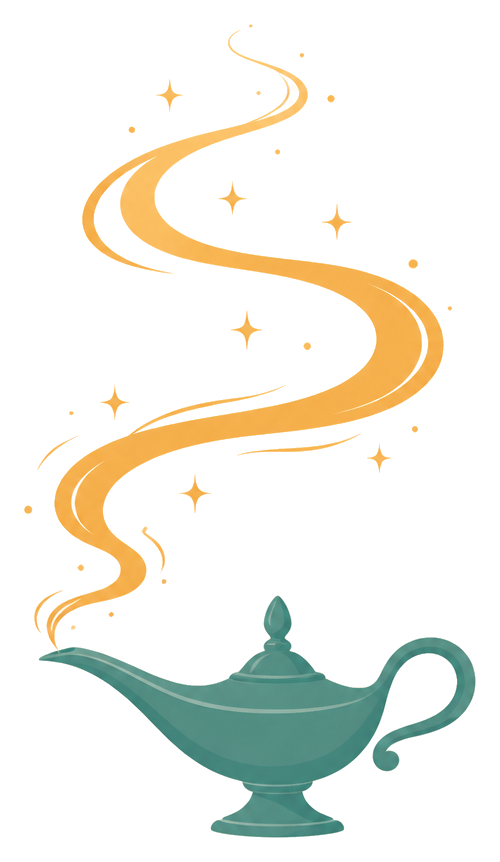
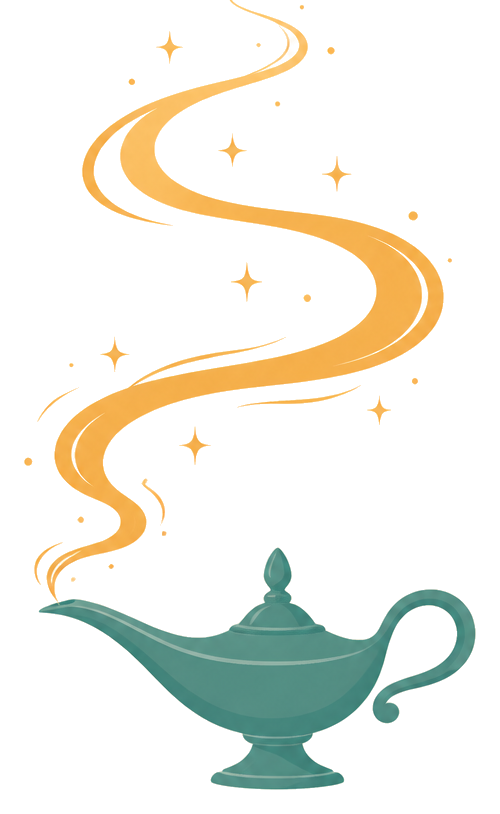
Speed up envelope animation, fix card z-index, rename wishes to credits
- Reduce envelope flip wait from 2.4s to 1.2s and opening animation from 6.2s to 4s
- Raise card z-index above flap so card appears in front during opening
- Replace all "wishes" with "credits" in purchasing/credit UI text

diff --git a/src/App.tsx b/src/App.tsx
@@ -162,7 +162,7 @@ const generateJobPollMs = 2000
 const generateJobClientTimeoutMs = 12 * 60 * 1000
 const generateJobMaxPollFailures = 15
 const generationLostConnectionMessage =
-  'We lost the connection while checking on your card. Come back to this page — if it finished, it will appear. No wishes are used until the card is ready.'
+  'We lost the connection while checking on your card. Come back to this page — if it finished, it will appear. No credits are used until the card is ready.'
 
 const readStoredGenerationJob = () => {
   try {
@@ -801,7 +801,7 @@ function App() {
   const [cardGreeting, setCardGreeting] = useState<string | null>(null)
   const [cardSignature, setCardSignature] = useState<string | null>(null)
   const [credits, setCredits] = useState(initialCreditBalance)
-  const [creditNotice, setCreditNotice] = useState('You have 50 starter wishes for this demo.')
+  const [creditNotice, setCreditNotice] = useState('You have 50 starter credits for this demo.')
   const [error, setError] = useState('')
   const [sharedCard, setSharedCard] = useState<SharedCard | null>(null)
   const [isLoadingSharedCard, setIsLoadingSharedCard] = useState(false)
@@ -1131,7 +1131,7 @@ function App() {
 
   const addCreditPack = () => {
     setCredits((current) => current + creditPackAmount)
-    setCreditNotice(`Added ${creditPackAmount} demo wishes. In production this would happen after checkout.`)
+    setCreditNotice(`Added ${creditPackAmount} demo credits. In production this would happen after checkout.`)
   }
 
   const finishGeneratedCard = (data: { message: string; closing?: string; imageUrl: string }, signatureName: string) => {
@@ -1146,7 +1146,7 @@ function App() {
     setStep('envelope')
     setShowCompletionNote(true)
     setCredits((current) => current - cardGenerationCost)
-    setCreditNotice(`${cardGenerationCost} wishes used to create this card.`)
+    setCreditNotice(`${cardGenerationCost} credits used to create this card.`)
     window.setTimeout(() => setShowCompletionNote(false), 6000)
     clearStoredGenerationJob()
   }
@@ -1199,7 +1199,7 @@ function App() {
     setError('')
 
     if (!hasEnoughCreditsForCard) {
-      setCreditNotice(`You need ${cardGenerationCost} wishes to create a card. Buy more wishes to keep going.`)
+      setCreditNotice(`You need ${cardGenerationCost} credits to create a card. Buy more credits to keep going.`)
       return
     }
 
@@ -1270,7 +1270,7 @@ function App() {
 
   const openEnvelope = () => {
     setStep('opening')
-    window.setTimeout(() => setStep('front'), 6200)
+    window.setTimeout(() => setStep('front'), 4000)
   }
 
   const playEnvelopeBack = () => {
@@ -1280,7 +1280,7 @@ function App() {
 
   const flipEnvelope = () => {
     setStep('envelopeFlip')
-    window.setTimeout(playEnvelopeBack, 2400)
+    window.setTimeout(playEnvelopeBack, 1200)
   }
 
   const replayAnimation = () => {
@@ -1350,7 +1350,7 @@ function App() {
     setError('')
 
     if (!hasEnoughCreditsForRevision) {
-      setCreditNotice(`You need ${revisionCost} wishes to revise the cover. Buy more wishes to keep going.`)
+      setCreditNotice(`You need ${revisionCost} credits to revise the cover. Buy more credits to keep going.`)
       return
     }
 
@@ -1385,7 +1385,7 @@ function App() {
       setImageRefinement('')
       setStep('front')
       setCredits((current) => current - revisionCost)
-      setCreditNotice(`${revisionCost} wishes used to revise the cover.`)
+      setCreditNotice(`${revisionCost} credits used to revise the cover.`)
     } catch (caughtError) {
       setError(getFriendlyErrorMessage(caughtError, 'Unable to refine the cover image.'))
       setCreditNotice('Your wish is still in the lamp.')
@@ -1402,7 +1402,7 @@ function App() {
     setError('')
 
     if (!hasEnoughCreditsForRevision) {
-      setCreditNotice(`You need ${revisionCost} wishes to polish the message. Buy more wishes to keep going.`)
+      setCreditNotice(`You need ${revisionCost} credits to polish the message. Buy more credits to keep going.`)
       return
     }
 
@@ -1447,7 +1447,7 @@ function App() {
       setShowPolishDialog(false)
       setStep('inside')
       setCredits((current) => current - revisionCost)
-      setCreditNotice(`${revisionCost} wishes used to polish the inside message.`)
+      setCreditNotice(`${revisionCost} credits used to polish the inside message.`)
     } catch (caughtError) {
       setError(getFriendlyErrorMessage(caughtError, 'Unable to refine the inside message.'))
       setCreditNotice('Your wish is still in the lamp.')
@@ -1607,13 +1607,13 @@ function App() {
         {!isRecipientView && <div className="credit-wallet" aria-label="Wish balance">
           <div>
             <span className="wallet-kicker">Welcome back, {senderLabel}. Ready for another wish?</span>
-            <strong>{credits} wishes in your lamp</strong>
+            <strong>{credits} credits in your lamp</strong>
             <small>
-              Cards use {cardGenerationCost} wishes. Revisions use {revisionCost} wishes.
+              Cards use {cardGenerationCost} credits. Revisions use {revisionCost} credits.
             </small>
           </div>
           <button className="secondary-button" type="button" onClick={addCreditPack}>
-            Buy more wishes - $10
+            Buy more credits - $10
           </button>
         </div>}
       </section>
@@ -1630,7 +1630,7 @@ function App() {
 
           <div className="credit-callout">
             <span>{creditNotice}</span>
-            <strong>{credits} wishes</strong>
+            <strong>{credits} credits</strong>
           </div>
 
           <div className="field-grid">
@@ -1787,8 +1787,8 @@ function App() {
             {isGenerating
               ? 'Creating a little magic...'
               : card
-                ? `Create another card - ${cardGenerationCost} wishes`
-                : `Create this card - ${cardGenerationCost} wishes`}
+                ? `Create another card - ${cardGenerationCost} credits`
+                : `Create this card - ${cardGenerationCost} credits`}
           </button>
           {isGenerating && (
             <p className="generate-scroll-hint">Your card is taking shape below.</p>
@@ -1829,7 +1829,7 @@ function App() {
               <div className="wish-loader" aria-hidden="true">
                 <div className="wish-halo" />
                 <img className="wish-art" src={`${import.meta.env.BASE_URL}loader-wish.png`} alt="" />
-                <svg className="wish-sparks" viewBox="0 0 500 862" fill="none">
+                <svg className="wish-sparks" viewBox="0 0 500 814" fill="none">
                   <defs>
                     <filter id="spark-glow" x="-80%" y="-80%" width="260%" height="260%">
                       <feGaussianBlur stdDeviation="1.4" result="blur" />
@@ -1843,30 +1843,30 @@ function App() {
                     </filter>
                   </defs>
                   <g className="wisps" filter="url(#wisp-blur)">
-                    <path className="wisp wisp-1" d="M70 620C110 580 145 555 125 525C90 495 75 475 100 450C170 415 310 405 400 355C445 320 430 295 350 268C240 238 125 225 132 185C140 145 230 115 285 78" />
-                    <path className="wisp wisp-2" d="M82 618C122 575 158 548 138 520C102 490 88 470 114 444C182 408 322 398 412 348C456 314 440 288 360 262C250 232 138 218 145 178C154 138 242 108 296 74" />
-                    <path className="wisp wisp-3" d="M58 622C96 586 132 562 112 532C78 502 64 482 88 456C158 422 298 412 388 362C434 328 418 302 338 274C228 244 114 232 120 192C128 154 218 122 274 84" />
-                    <path className="wisp wisp-4" d="M100 450C170 415 310 405 400 355C445 320 430 295 350 268C240 238 125 225 132 185" />
-                    <path className="wisp wisp-5" d="M68 628C88 600 120 575 118 548C110 528 88 518 78 505" />
+                    <path className="wisp wisp-1" d="M70 572C110 532 145 507 125 477C90 447 75 427 100 402C170 367 310 357 400 307C445 272 430 247 350 220C240 190 125 177 132 137C140 97 230 67 285 30" />
+                    <path className="wisp wisp-2" d="M82 570C122 527 158 500 138 472C102 442 88 422 114 396C182 360 322 350 412 300C456 266 440 240 360 214C250 184 138 170 145 130C154 90 242 60 296 26" />
+                    <path className="wisp wisp-3" d="M58 574C96 538 132 514 112 484C78 454 64 434 88 408C158 374 298 364 388 314C434 280 418 254 338 226C228 196 114 184 120 144C128 106 218 74 274 36" />
+                    <path className="wisp wisp-4" d="M100 402C170 367 310 357 400 307C445 272 430 247 350 220C240 190 125 177 132 137" />
+                    <path className="wisp wisp-5" d="M68 580C88 552 120 527 118 500C110 480 88 470 78 457" />
                   </g>
                   <g className="sparks" filter="url(#spark-glow)">
-                    <path className="spark spark-1" d="M248 72 249.3 76.7 254 78 249.3 79.3 248 84 246.7 79.3 242 78 246.7 76.7Z" />
-                    <path className="spark spark-2" d="M286 148 287.5 153.5 293 155 287.5 156.5 286 162 284.5 156.5 279 155 284.5 153.5Z" />
-                    <path className="spark spark-3" d="M214 214 215.8 220.2 222 222 215.8 223.8 214 230 212.2 223.8 206 222 212.2 220.2Z" />
-                    <path className="spark spark-4" d="M304 292 305.5 297.5 311 299 305.5 300.5 304 306 302.5 300.5 297 299 302.5 297.5Z" />
-                    <path className="spark spark-5" d="M236 372 237.3 376.7 242 378 237.3 379.3 236 384 234.7 379.3 230 378 234.7 376.7Z" />
-                    <path className="spark spark-6" d="M318 448 319.8 454.2 326 456 319.8 457.8 318 464 316.2 457.8 310 456 316.2 454.2Z" />
-                    <path className="spark spark-7" d="M176 518 177.1 521.9 181 523 177.1 524.1 176 528 174.9 524.1 171 523 174.9 521.9Z" />
-                    <path className="spark spark-8" d="M252 718 253.3 722.7 258 724 253.3 725.3 252 730 250.7 725.3 246 724 250.7 722.7Z" />
-                    <path className="spark spark-9" d="M348 752 349.1 755.9 353 757 349.1 758.1 348 762 346.9 758.1 343 757 346.9 755.9Z" />
-                    <path className="spark spark-10" d="M152 692 153.3 696.7 158 698 153.3 699.3 152 704 150.7 699.3 146 698 150.7 696.7Z" />
-                    <path className="spark spark-11" d="M268 96 269.1 99.9 273 101 269.1 102.1 268 106 266.9 102.1 263 101 266.9 99.9Z" />
-                    <path className="spark spark-12" d="M228 268 228.9 271.1 232 272 228.9 272.9 228 276 227.1 272.9 224 272 227.1 271.1Z" />
-                    <path className="spark spark-13" d="M292 388 293.3 392.7 298 394 293.3 395.3 292 400 290.7 395.3 286 394 290.7 392.7Z" />
-                    <path className="spark spark-14" d="M210 456 211.5 461.5 217 463 211.5 464.5 210 470 208.5 464.5 203 463 208.5 461.5Z" />
-                    <circle className="spark spark-15" cx="274" cy="190" r="2.2" />
-                    <circle className="spark spark-16" cx="242" cy="330" r="1.8" />
-                    <circle className="spark spark-17" cx="300" cy="510" r="1.7" />
+                    <path className="spark spark-1" d="M248 24 249.3 28.7 254 30 249.3 31.3 248 36 246.7 31.3 242 30 246.7 28.7Z" />
+                    <path className="spark spark-2" d="M286 100 287.5 105.5 293 107 287.5 108.5 286 114 284.5 108.5 279 107 284.5 105.5Z" />
+                    <path className="spark spark-3" d="M214 166 215.8 172.2 222 174 215.8 175.8 214 182 212.2 175.8 206 174 212.2 172.2Z" />
+                    <path className="spark spark-4" d="M304 244 305.5 249.5 311 251 305.5 252.5 304 258 302.5 252.5 297 251 302.5 249.5Z" />
+                    <path className="spark spark-5" d="M236 324 237.3 328.7 242 330 237.3 331.3 236 336 234.7 331.3 230 330 234.7 328.7Z" />
+                    <path className="spark spark-6" d="M318 400 319.8 406.2 326 408 319.8 409.8 318 416 316.2 409.8 310 408 316.2 406.2Z" />
+                    <path className="spark spark-7" d="M176 470 177.1 473.9 181 475 177.1 476.1 176 480 174.9 476.1 171 475 174.9 473.9Z" />
+                    <path className="spark spark-8" d="M252 670 253.3 674.7 258 676 253.3 677.3 252 682 250.7 677.3 246 676 250.7 674.7Z" />
+                    <path className="spark spark-9" d="M348 704 349.1 707.9 353 709 349.1 710.1 348 714 346.9 710.1 343 709 346.9 707.9Z" />
+                    <path className="spark spark-10" d="M152 644 153.3 648.7 158 650 153.3 651.3 152 656 150.7 651.3 146 650 150.7 648.7Z" />
+                    <path className="spark spark-11" d="M268 48 269.1 51.9 273 53 269.1 54.1 268 58 266.9 54.1 263 53 266.9 51.9Z" />
+                    <path className="spark spark-12" d="M228 220 228.9 223.1 232 224 228.9 224.9 228 228 227.1 224.9 224 224 227.1 223.1Z" />
+                    <path className="spark spark-13" d="M292 340 293.3 344.7 298 346 293.3 347.3 292 352 290.7 347.3 286 346 290.7 344.7Z" />
+                    <path className="spark spark-14" d="M210 408 211.5 413.5 217 415 211.5 416.5 210 422 208.5 416.5 203 415 208.5 413.5Z" />
+                    <circle className="spark spark-15" cx="274" cy="142" r="2.2" />
+                    <circle className="spark spark-16" cx="242" cy="282" r="1.8" />
+                    <circle className="spark spark-17" cx="300" cy="462" r="1.7" />
                   </g>
                 </svg>
               </div>
@@ -2388,7 +2388,7 @@ function App() {
                                 ) : (
                                   <>
                                     <span>Rewrite with AI</span>
-                                    <span className="button-points">{revisionCost} wishes</span>
+                                    <span className="button-points">{revisionCost} credits</span>
                                   </>
                                 )}
                               </button>

diff --git a/src/App.css b/src/App.css
@@ -636,10 +636,11 @@ textarea:focus {
 .creative-loader {
   display: grid;
   place-items: center;
-  align-content: center;
+  align-content: start;
+  min-height: 0;
   border: 1px solid rgba(143, 208, 201, 0.36);
   border-radius: 30px;
-  padding: 42px;
+  padding: 16px 32px 28px;
   color: var(--gcu-dark-grey);
   background:
     radial-gradient(circle at 50% 8%, rgba(245, 158, 51, 0.32), transparent 32%),
@@ -667,8 +668,8 @@ textarea:focus {
   position: relative;
   display: grid;
   place-items: center;
-  width: 250px;
-  height: 430px;
+  width: 167px;
+  height: 272px;
   margin-bottom: 8px;
 }
 
@@ -1233,11 +1234,12 @@ textarea:focus {
 
 .opening-scene .envelope {
   z-index: 3;
-  animation: envelopeOpenAndFade 6.2s ease forwards;
+  animation: envelopeOpenAndFade 4s ease forwards;
 }
 
 .envelope.is-opening .envelope-flap {
-  animation: flapOpen 6.2s cubic-bezier(0.2, 0.9, 0.2, 1) forwards;
+  z-index: 6;
+  animation: flapOpen 4s cubic-bezier(0.2, 0.9, 0.2, 1) forwards;
 }
 
 .envelope.is-opening .envelope-front-face {
@@ -1246,7 +1248,7 @@ textarea:focus {
 
 .envelope.is-opening .envelope-back-face,
 .envelope.is-opening .envelope-liner {
-  animation: envelopeLayerFade 6.2s ease forwards;
+  animation: envelopeLayerFade 4s ease forwards;
 }
 
 .envelope.is-opening .envelope-back,
@@ -1261,7 +1263,7 @@ textarea:focus {
   position: absolute;
   left: 50%;
   bottom: 118px;
-  z-index: 5;
+  z-index: 7;
   overflow: hidden;
   width: min(360px, 60%);
   aspect-ratio: 5 / 7;
@@ -2166,15 +2168,15 @@ textarea:focus {
     opacity: 1;
     transform: translateY(0) scale(1);
   }
-  54% {
+  28% {
     opacity: 1;
     transform: translateY(0) scale(1);
   }
-  78% {
+  66% {
     opacity: 1;
     transform: translateY(34px) scale(0.99);
   }
-  84% {
+  78% {
     opacity: 1;
     transform: translateY(48px) scale(0.98);
   }
@@ -2368,16 +2370,15 @@ textarea:focus {
 }
 
 @keyframes flapOpen {
-  0%,
-  30% {
+  0% {
     opacity: 1;
     transform: rotateX(0deg);
   }
-  54% {
+  36% {
     opacity: 1;
     transform: rotateX(118deg) translateY(-8px);
   }
-  82% {
+  78% {
     opacity: 1;
     transform: rotateX(118deg) translateY(-8px);
   }
@@ -2408,21 +2409,21 @@ textarea:focus {
 
 @keyframes cardToastRise {
   0%,
-  54% {
+  28% {
     opacity: 0;
     clip-path: inset(0 0 68% 0);
     transform: translateX(-50%) translateY(120px) scale(0.86);
   }
-  62% {
+  42% {
     opacity: 1;
     clip-path: inset(0 0 62% 0);
     transform: translateX(-50%) translateY(100px) scale(0.86);
   }
-  78% {
+  66% {
     clip-path: inset(0 0 38% 0);
     transform: translateX(-50%) translateY(6px) scale(0.9);
   }
-  86% {
+  80% {
     clip-path: inset(0 0 12% 0);
     transform: translateX(-50%) translateY(-48px) scale(0.96);
   }
@@ -2601,6 +2602,11 @@ textarea:focus {
   .empty-state,
   .proof-stage {
     min-height: 440px;
+  }
+
+  .creative-loader {
+    min-height: 0;
+    padding: 12px 18px 24px;
   }
 
   .envelope-scene {
